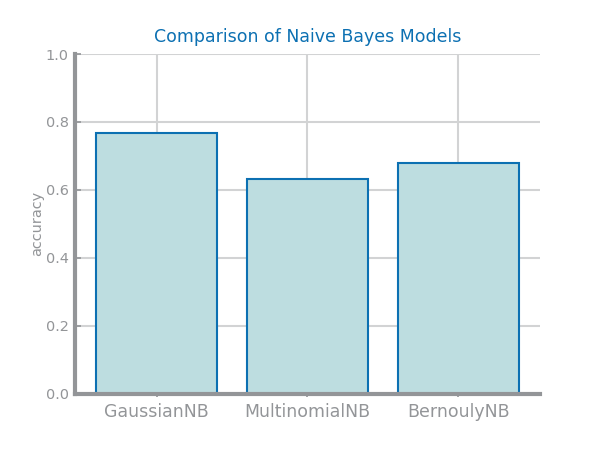
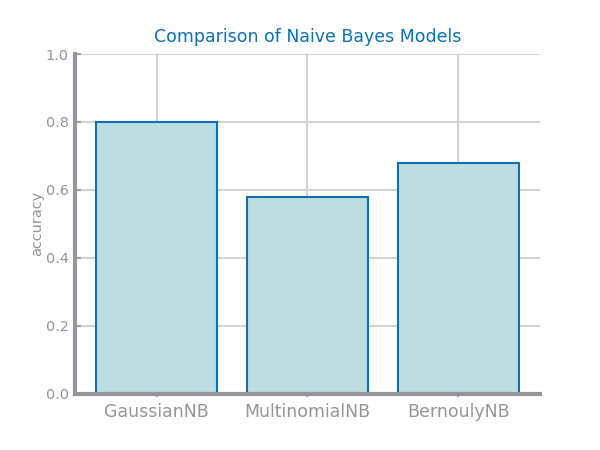
heart feature selection sampling

Changed region(s): [[0.39, 0.3733, 0.63, 0.4667], [0.15, 0.2489, 0.36, 0.3111]]

diff --git a/Heart_FeatureSelection_Sampled.py b/Heart_FeatureSelection_Sampled.py
@@ -9,22 +9,23 @@ from sklearn.model_selection import train_test_split
 from Heart_NaiveBayes import NaiveBayesModel, NaiveBayesEstimation
 
 
-def NaiveBayesTest(X, y, savename=None):
-    trnX, tstX, trnY, tstY = train_test_split(X, y, train_size=0.7, stratify=y, random_state=69)
+def NaiveBayesTest(X, y, nsamples=10):
+    score = np.empty((nsamples, 3))
 
-    NaiveBayesModel(trnX, tstX, trnY, tstY)
-    if savename is not None:
-        plt.savefig('plots/Heart_FeatureSelection_'+savename+'_NB.png')
+    for i in range(nsamples):
+        trnX, tstX, trnY, tstY = train_test_split(X, y, train_size=0.7, stratify=y)
+        NaiveBayesModel(trnX, tstX, trnY, tstY)
+        _, score[i] = NaiveBayesEstimation(trnX, tstX, trnY, tstY)
     
-    _, score = NaiveBayesEstimation(trnX, tstX, trnY, tstY)
-    if savename is not None:
-        plt.savefig('plots/Heart_FetureSelection_'+savename+'_NBestimators.png')
-    
-    print('NB holdout score:', score)
+    print('Mean:', np.mean(score, axis=0))
+    print('Best:', np.max(score, axis=0))
+    print('Std:', np.std(score, axis=0))
     return score
 
 
-np.set_printoptions(precision=4, suppress=True)    
+np.set_printoptions(precision=4, suppress=True)
+
+nsamples = 10
 
 # get data
 data: pd.DataFrame = pd.read_csv('data/heart_failure_clinical_records_dataset.csv')
@@ -36,7 +37,7 @@ X: np.ndarray = data.values
 # original results
 print('X shape:', X.shape)
 print('\nOriginal data space:\n', X[0])
-NaiveBayesTest(X, y)
+NaiveBayesTest(X, y, nsamples)
 
 ##### Filters - Classification #####
 
@@ -55,7 +56,7 @@ print('SelectFpr - Number of features:', len(X_new[0]))
 # print('Selected indices:', selector.get_support(indices=True))
 # print('New data space:', X_new[0])
 
-NaiveBayesTest(X_new, y, 'chi2_FPR_alpha='+str(alpha))
+NaiveBayesTest(X_new, y, 10)
 
 # - SelectFdr (false discovery rate)
 selector = SelectFdr(chi2, alpha=alpha)
@@ -64,7 +65,7 @@ print('SelectFdr - Number of features:', len(X_new[0]))
 # print('Selected indices:', selector.get_support(indices=True))
 # print('New data space:', X_new[0])
 
-# NaiveBayesTest(X_new, y, 'chi2_FDR_alpha='+str(alpha))
+# NaiveBayesTest(X_new, y, 10)
 
 # - SelectFwe (family wise error) 
 selector = SelectFwe(chi2, alpha=alpha)
@@ -73,7 +74,7 @@ print('SelectFwe - Number of features:', len(X_new[0]))
 print('Selected indices:', selector.get_support(indices=True))
 # print('New data space:', X_new[0])
 
-# NaiveBayesTest(X_new, y, 'chi2_FWE_alpha='+str(alpha))
+# NaiveBayesTest(X_new, y, 10)
 
 
 # mutual_info_classif - SelectKBest (highest scoring number)
@@ -84,7 +85,7 @@ print('\nSelectKBest scores:\n', selector.scores_)
 print('SelectKBest (k = {}) - Selected indices: {}'.format(k, selector.get_support(indices=True)))
 # print('New data space:', X_new[0])
 
-NaiveBayesTest(X_new, y, 'MI_kBest='+str(k))
+NaiveBayesTest(X_new, y, 10)
 
 
 # ANOVA (f_classif) - SelectPercentile (highest scoring percentage)
@@ -96,7 +97,7 @@ print('SelectPercentile ({}%) - Number of features: {}'.format(percentile, len(X
 print('Selected indices:', selector.get_support(indices=True))
 # print('New data space:', X_new[0])
 
-NaiveBayesTest(X_new, y, 'ANOVA_percent='+str(percentile)+'%')
+NaiveBayesTest(X_new, y, 10)
 
 
 ##### Filters - Unsupervised #####
@@ -113,7 +114,7 @@ print('Variance (threshold={}) - Number of features: {}'.format(threshold, len(X
 # print('Selected indices:', selector.get_support(indices=True))
 # print('New data space:', X_new[0])
 
-# NaiveBayesTest(X_new, y, 'variance_trsh='+str(threshold))
+# NaiveBayesTest(X_new, y, 10)
 
 threshold = 0.25
 selector = VarianceThreshold(threshold)
@@ -122,7 +123,7 @@ print('Variance (threshold={}) - Number of features: {}'.format(threshold, len(X
 print('Selected indices:', selector.get_support(indices=True))
 # print('New data space:', X_new[0])
 
-NaiveBayesTest(X_new, y, 'variance_trsh='+str(threshold))
+NaiveBayesTest(X_new, y, 10)
 
 
 ##### Wrappers #####
